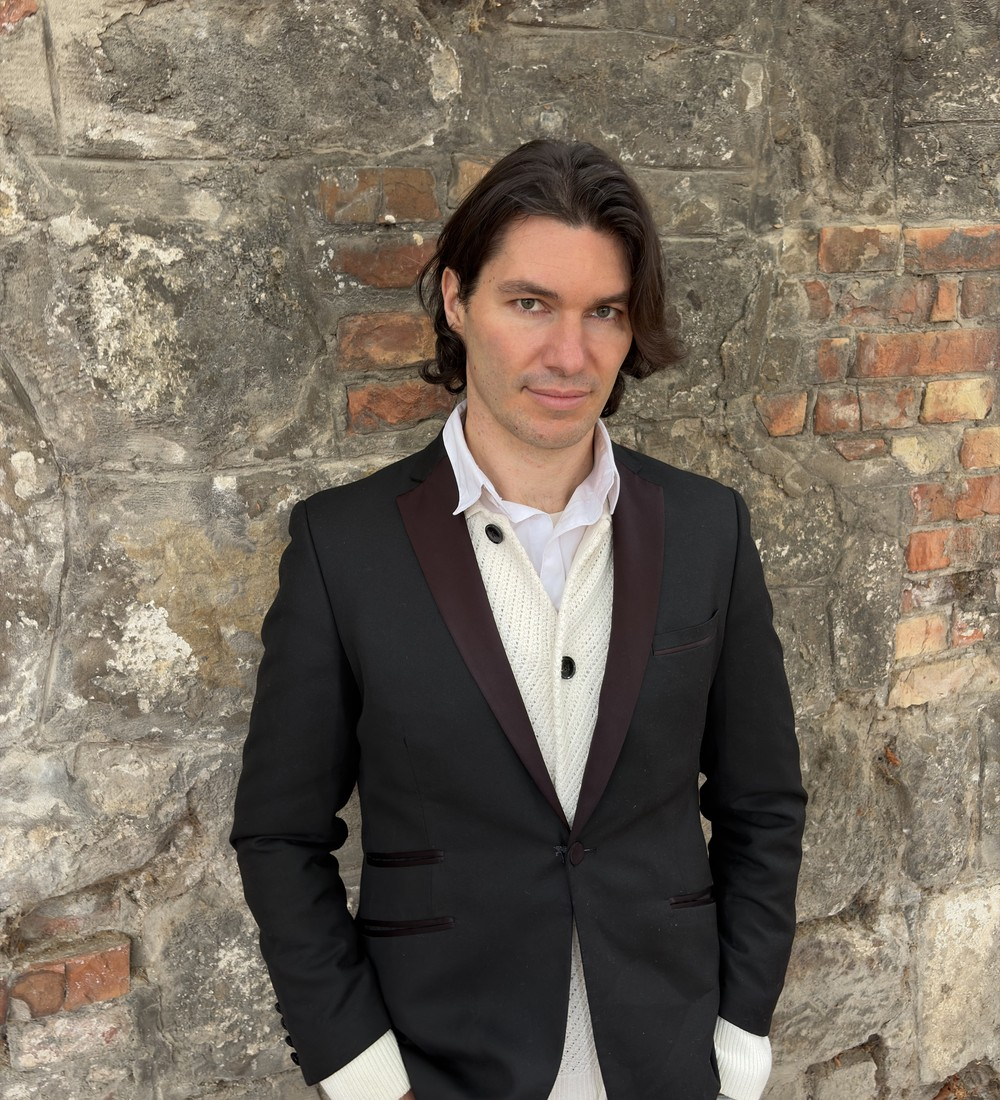
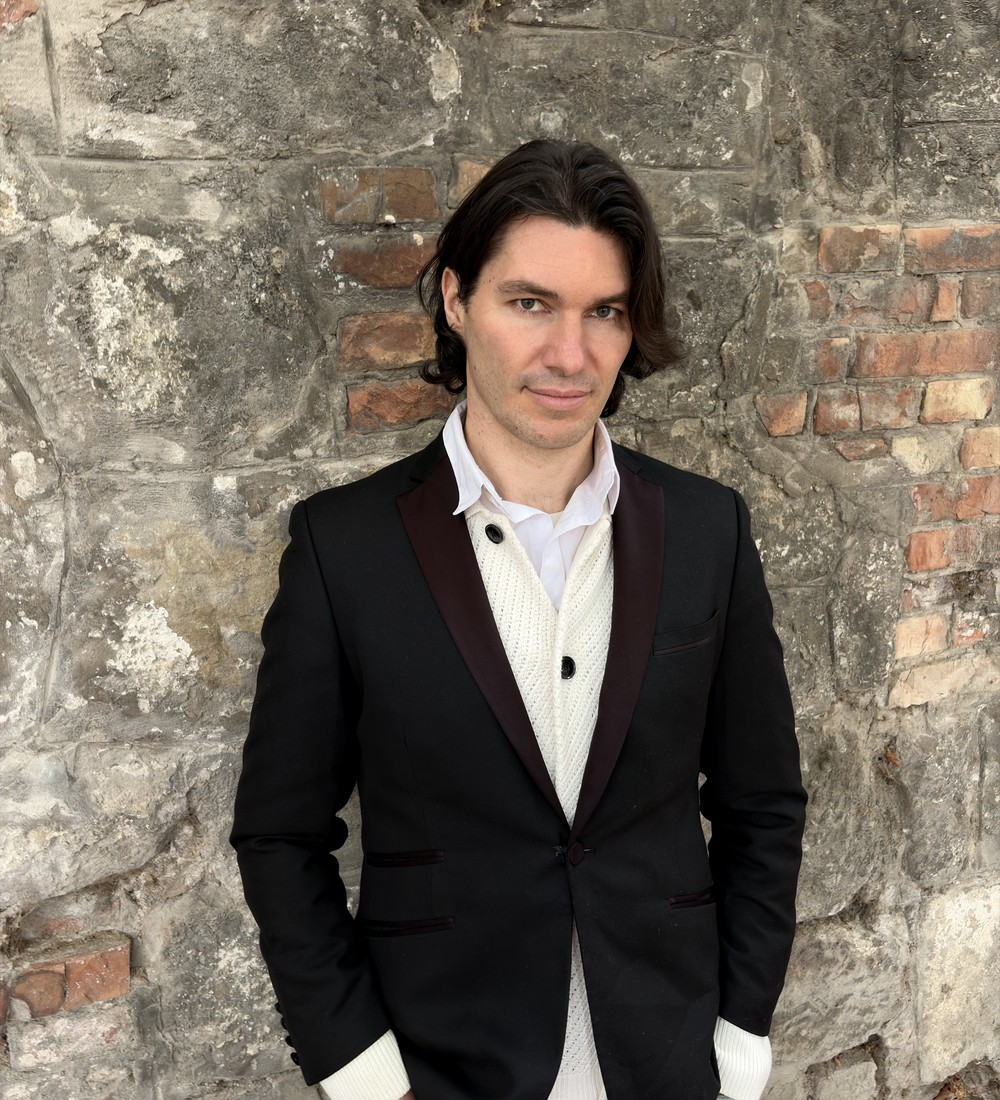
Refresh hero portrait and expand gallery with autumn photos

diff --git a/src/components/Photos.jsx b/src/components/Photos.jsx
@@ -14,7 +14,14 @@ import photo9    from "../assets/images/casting/casting-look-warm.jpg";
 import photo10   from "../assets/images/casting/casting-look-serious.jpg";
 import photo11   from "../assets/images/casting/casting-look-smile.jpg";
 
+import autumn1262 from "../assets/images/photo-autumn-1262.jpg";
+import autumn1392 from "../assets/images/photo-autumn-1392.jpg";
+import autumn1400 from "../assets/images/photo-autumn-1400.jpg";
+
 const staticPhotos = [
+  { src: autumn1262, alt: "Richard Körmendi smiling portrait against a stone wall" },
+  { src: autumn1392, alt: "Richard Körmendi full-length portrait outdoors in autumn" },
+  { src: autumn1400, alt: "Richard Körmendi portrait beneath autumn foliage" },
   { src: photo8,    alt: "Richard Körmendi full-length portrait against a stone wall" },
   { src: photo9,    alt: "Richard Körmendi portrait, warm smile" },
   { src: photo10,   alt: "Richard Körmendi portrait, side profile" },
@@ -55,7 +62,7 @@ export default function Photos() {
               initial={{ opacity: 0, x: 30 }} whileInView={{ opacity: 1, x: 0 }}
               viewport={{ once: true, amount: 0.05 }} transition={{ duration: 0.6, delay: i * 0.1 }}
               style={{ flex: "0 0 300px", height: "400px", scrollSnapAlign: "start", borderRadius: "2px", overflow: "hidden", background: "rgba(255,255,255,0.05)", position: "relative" }}>
-              <img src={photo.src} alt={photo.alt} style={{ width: "100%", height: "100%", objectFit: "cover", display: "block" }} />
+              <img src={photo.src} alt={photo.alt} loading="lazy" decoding="async" style={{ width: "100%", height: "100%", objectFit: "cover", display: "block" }} />
               {photo.caption && (
                 <div style={{ position: "absolute", bottom: 0, left: 0, right: 0, padding: "0.75rem 1rem", background: "linear-gradient(transparent, rgba(0,0,0,0.65))", color: "#fff", fontSize: "0.8rem", letterSpacing: "0.03em" }}>
                   {photo.caption}
